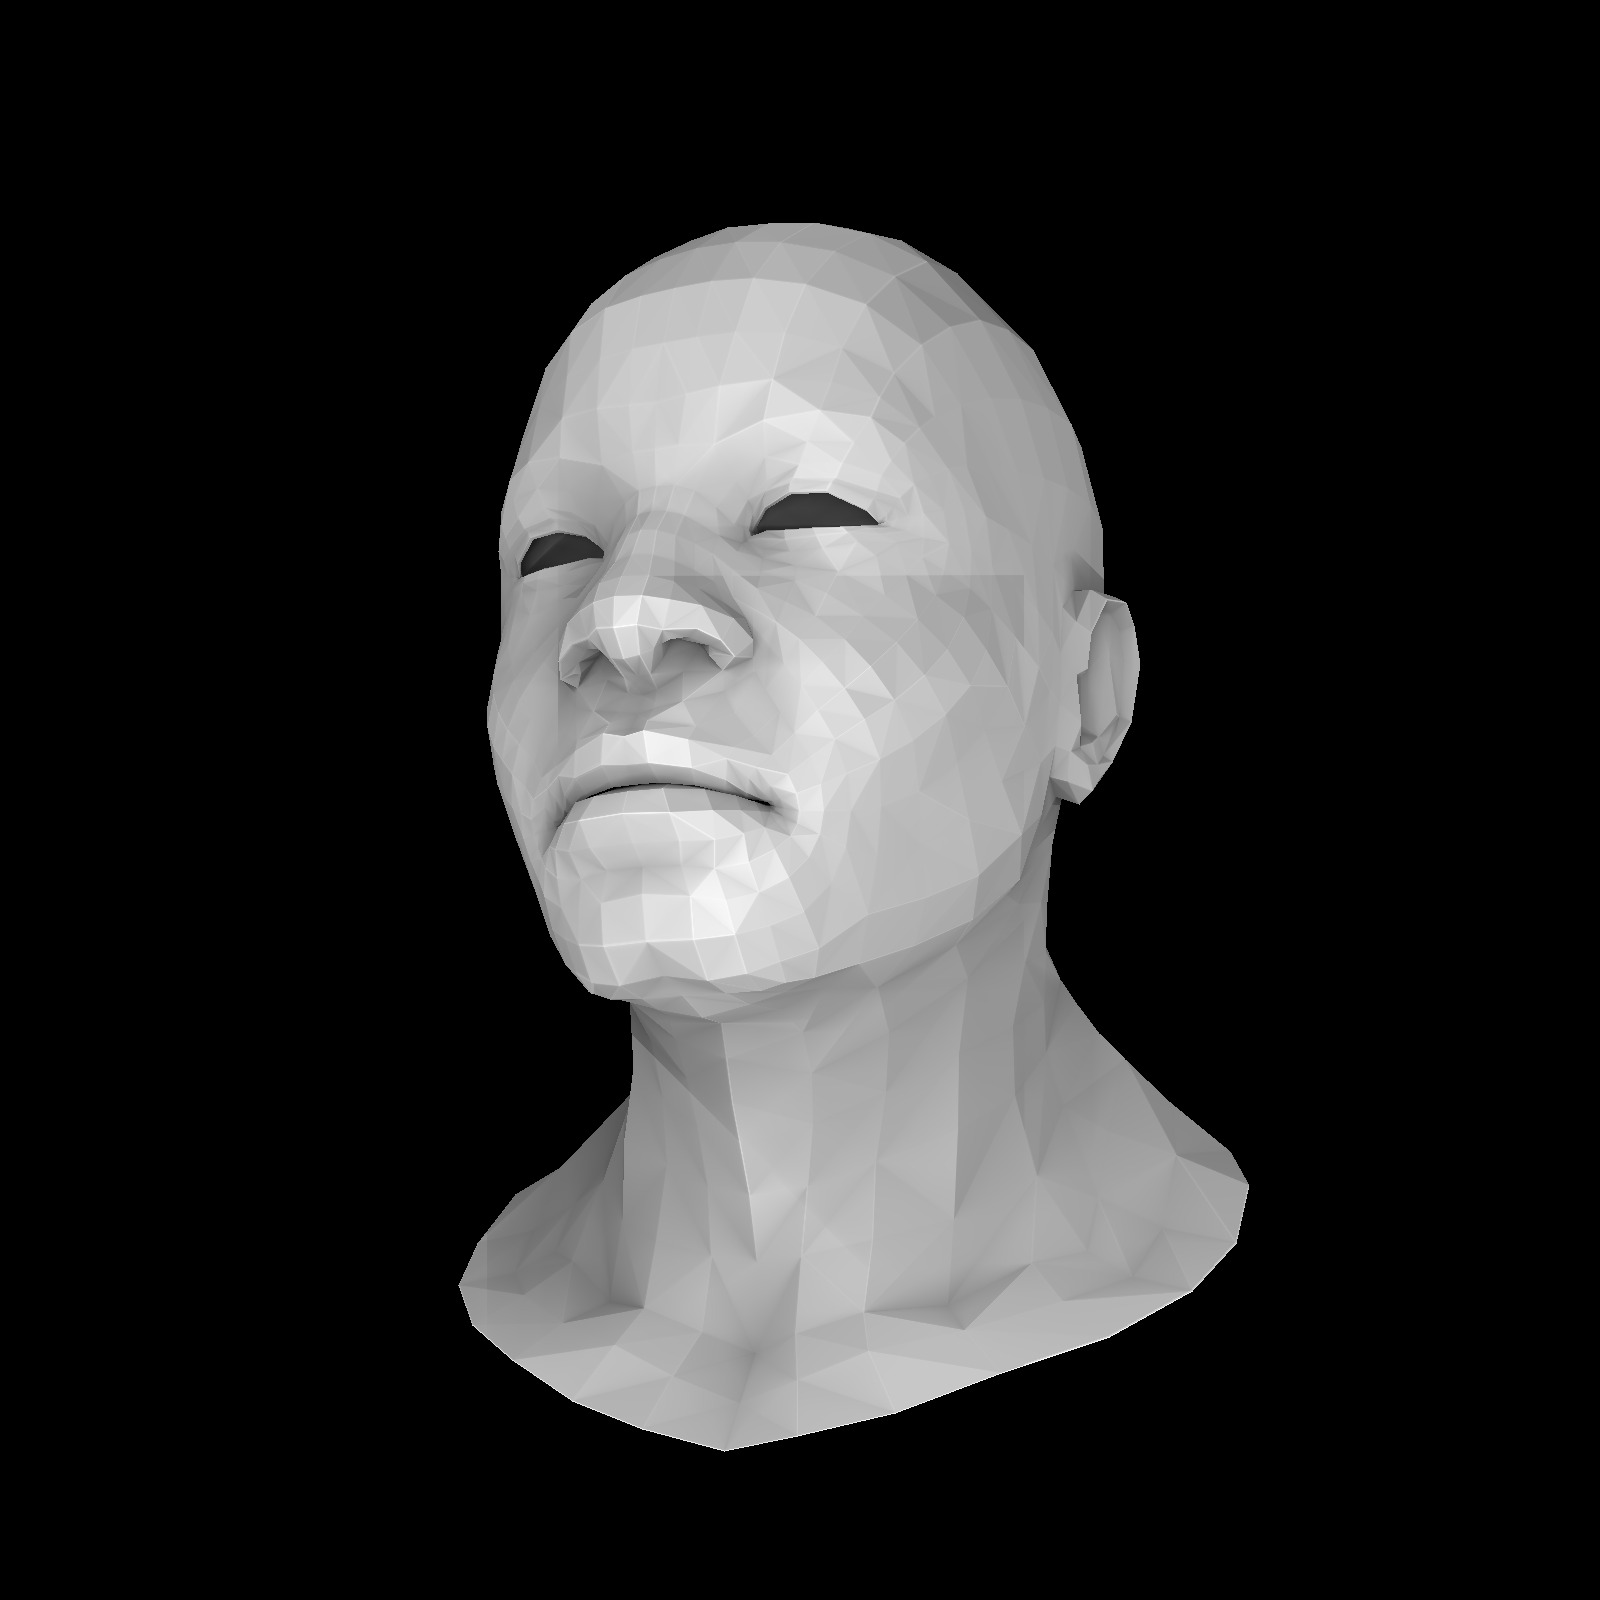
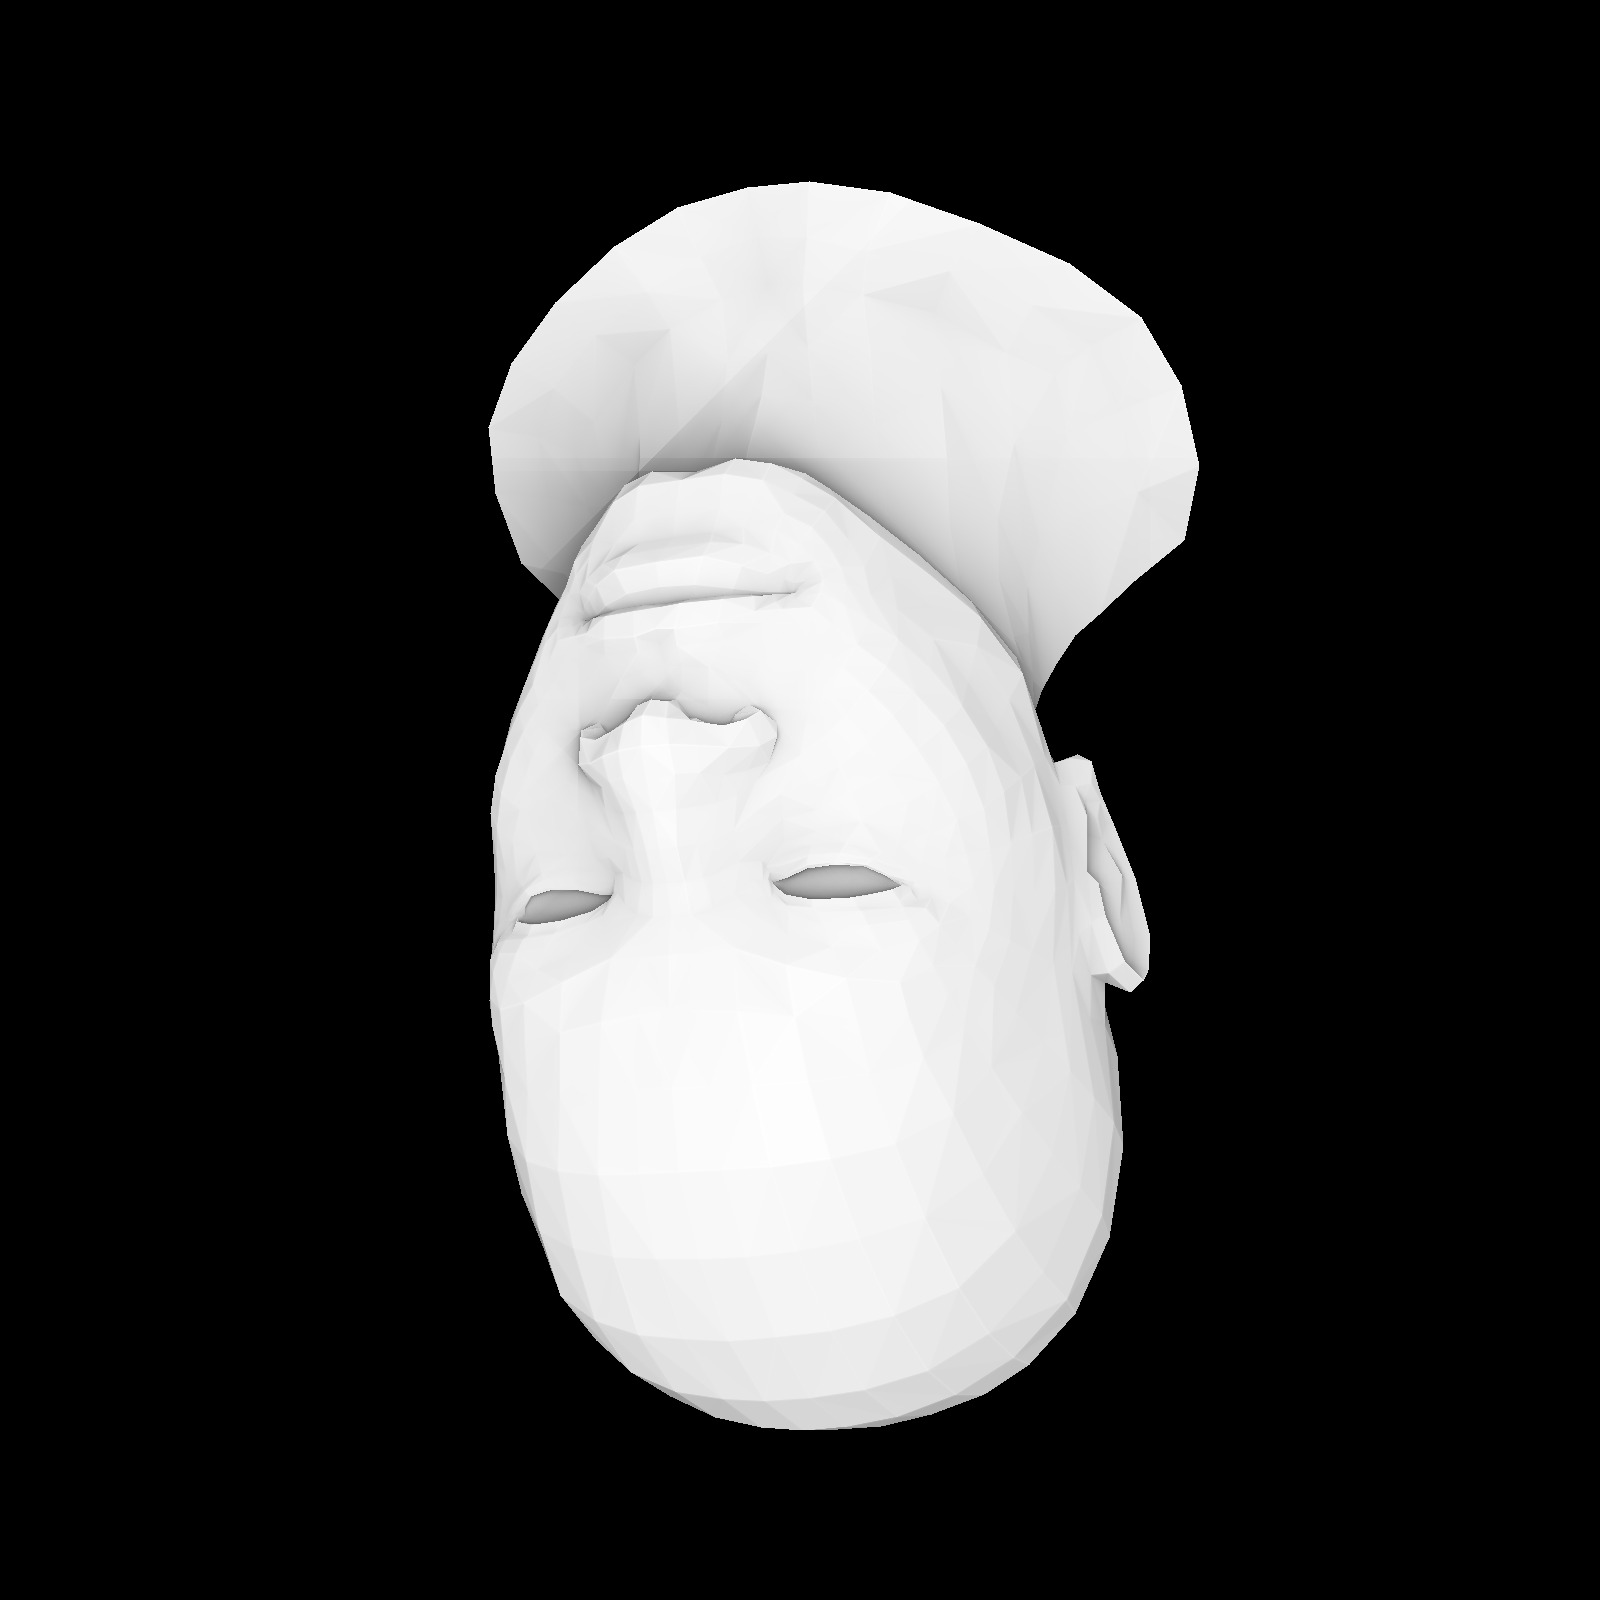
update for parralel and vector zbuffer

Changed region(s): [[0.2812, 0.0938, 0.7812, 0.9062]]

diff --git a/ssloys_lecture/L8_screen_space_ambient_occlusion/main.cpp b/ssloys_lecture/L8_screen_space_ambient_occlusion/main.cpp
@@ -4,6 +4,7 @@
 #include "algorithm"
 #include "string.h"
 #include "iostream"
+#include <omp.h>
 
 using std::cerr;
 using std::cin;
@@ -18,15 +19,15 @@ using std::vector;
 
 int imageh = 1600;
 int imagew = 1600;
-int imaged = 1600;
-double max_distant = sqrt(imagew*imagew + imageh*imageh); // the max distant of 2 different pixel of the image (pixel unit)
+int imaged = 255;
+double max_distant = sqrt(imagew * imagew + imageh * imageh); // the max distant of 2 different pixel of the image (pixel unit)
 const string filename = "tgatest.tga";
 const TGAColor white = {255, 255, 255};
 const TGAColor red = {255, 0, 0};
 const TGAColor green = {0, 255, 0};
 const TGAColor blue = {0, 0, 255};
 vec3 lightsource_direction = {-1, -1, 0}; // will be normalized, show light source direction
-vec3 camera_coord = {1.2,-.8,3};            // coordinates of the camera
+vec3 camera_coord = {1, 1, 3};            // coordinates of the camera
 vec3 center = {0, 0, 0};                  // camera look at center (default: origin {0,0,0})
 vec3 up = {0, 1, 0};                      // up direction of camera (y axis of camera)
 
@@ -47,7 +48,8 @@ double specularstrength_scale = 1.5; // can be varies, should be from 0 to 2
 double glow_scale = 10;              // can be varies, should be 1 to 10
 double shadowstrength_scale = 0.5;   // from 0 to 1 (lower means darker shadow, 1 means no shadow)
 
-double *zbuffer = new double[imageh * imagew];
+/*double *zbuffer = new double[imageh * imagew];*/
+vector<double> zbuffer(imageh * imagew, -std::numeric_limits<double>::max());
 mat<4, 4> Projection;
 mat<4, 4> Viewport;
 mat<4, 4> Modelview;
@@ -175,7 +177,8 @@ struct IShader
    virtual bool fragment(vec3 bar, TGAColor &color) = 0;
 };
 
-struct ZShader : public IShader{
+struct ZShader : public IShader
+{
    mat<3, 3> varying_tri;
 
    virtual vec3 vertex(int iface, int nthvert)
@@ -193,7 +196,7 @@ struct ZShader : public IShader{
    }
 };
 
-void triangle(vec3 *vertices, IShader &shader, double *zbuffer, TGAImage *image)
+void triangle(vec3 *vertices, IShader &shader, vector<double> &zbuffer, TGAImage *image)
 {
    double imgw = (double)image->width();
    double imgh = (double)image->height();
@@ -237,19 +240,22 @@ void triangle(vec3 *vertices, IShader &shader, double *zbuffer, TGAImage *image)
    }
 }
 
-double max_elevation_angle(double* zbuffer, vec2 p, vec2 dir){
-   double max_angle = 0;
-   for(int t=0.;t<max_distant;t+=1.){
-      vec2 cur = p + dir*t;
-      if(cur.x >= imagew || cur.x < 0 || cur.y >= imageh || cur.y < 0){
-         return max_angle;
-      } // black pixel appear or out of image then stop
-      double elevation = zbuffer[int(cur.x) + int(cur.y)*imagew] - zbuffer[int(p.x) + int(p.y) * imagew];
-      double distant = (cur-p).norm();
-      if(distant < 1.) continue; // avoid divide by 0
-      max_angle = max<double>(max_angle, atanf(elevation/distant));
+float max_elevation_angle(const vector<double> &zbuffer, vec2 p, vec2 dir)
+{
+   double maxangle = 0;
+   for (double t = 0.; t < 1000.; t += 1.)
+   {
+      vec2 cur = p + dir * t;
+      if (cur.x >= imagew || cur.y >= imageh || cur.x < 0 || cur.y < 0)
+         return maxangle;
+
+      double distance = (p - cur).norm();
+      if (distance < 1.)
+         continue;
+      double elevation = zbuffer[int(cur.x) + int(cur.y) * imagew] - zbuffer[int(p.x) + int(p.y) * imagew];
+      maxangle = std::max<double>(maxangle, atanf64(elevation / distance));
    }
-   return max_angle;
+   return maxangle;
 }
 
 int main(int argc, char **argv)
@@ -259,13 +265,9 @@ int main(int argc, char **argv)
       filename = argv[1];
    else
    {
+      /*filename = "obj/african_head/african_head.obj";*/
       filename = "obj/diablo3_pose/diablo3_pose.obj";
-      // filename = "obj/african_head/african_head.obj";
-      // filename = "obj/skull/skull.obj";
    }
-
-   double *zbuffer = new double[imageh * imagew];
-   fill(zbuffer, zbuffer + imageh * imagew, -std::numeric_limits<double>::max());
 
    model = new Model(filename);
 
@@ -274,8 +276,8 @@ int main(int argc, char **argv)
 
    vec3 zvertices[3];
 
-   viewport(imagew/ 8, imageh/ 8, imagew * 3 / 4, imageh * 3 / 4, imaged);
-   projection(-1 / (camera_coord-center).norm());
+   viewport(imagew / 8, imageh / 8, imagew * 3 / 4, imageh * 3 / 4, imaged);
+   projection(-1 / (camera_coord - center).norm());
    lookat(camera_coord, center, up);
 
    for (int i = 0; i < model->nfaces(); i++)
@@ -287,20 +289,21 @@ int main(int argc, char **argv)
       triangle(zvertices, zshader, zbuffer, image);
    }
 
-   for (double x=0; x < imagew; x++){
-      for(double y=0; y< imageh; y++){
-         double total = 0;
-         if(zbuffer[int(x)+int(y)*imagew] < 1e-5) continue; // its already a black pixel, no need to calculate
-         for(double i=0; i < 2*M_PI - 1e-4; i+=M_PI/4){ // we only get 8 direction from this for loop
-            total += M_PI/2 - max_elevation_angle(zbuffer,vec2{x,y},vec2{cos(i),sin(i)});
-         }
-         total /= (M_PI/2)*8; // get the average angle of all direction
-         image->set(x,y,TGAColor{u_char(total*255),u_char(total*255),u_char(total*255)});
+  #pragma omp parallel for
+  for (int y = 0; y < imageh; y++) {
+      for (int x = 0; x < imagew; x++) {
+          if (zbuffer[x + y * imagew] < -1e5)
+              continue; // it's already a black pixel, no need to calculate
+          double total = 0;
+          for (double i = 0; i < 2 * M_PI - 1e-4; i += M_PI / 4) {
+              total += M_PI / 2 - max_elevation_angle(zbuffer, vec2{static_cast<double>(x), static_cast<double>(y)}, vec2{cos(i), sin(i)});
+          }
+          total /= (M_PI / 2) * 8; // get the average angle of all directions
+          image->set(x, y, TGAColor{static_cast<unsigned char>(total * 255), static_cast<unsigned char>(total * 255), static_cast<unsigned char>(total * 255)});
       }
-   }
+  }
 
    image->write_tga_file("test.tga");
-   delete[] zbuffer;
    delete model;
    delete image;
    return 0;
